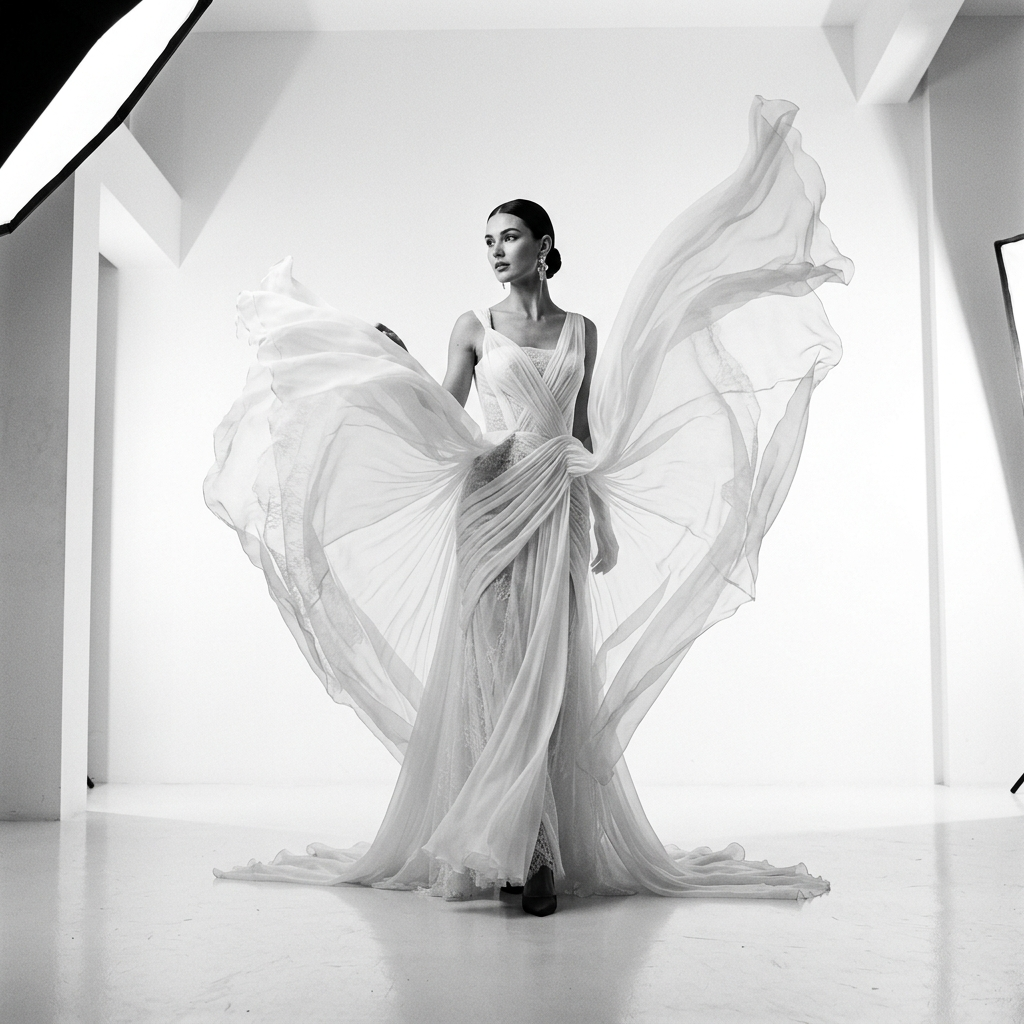
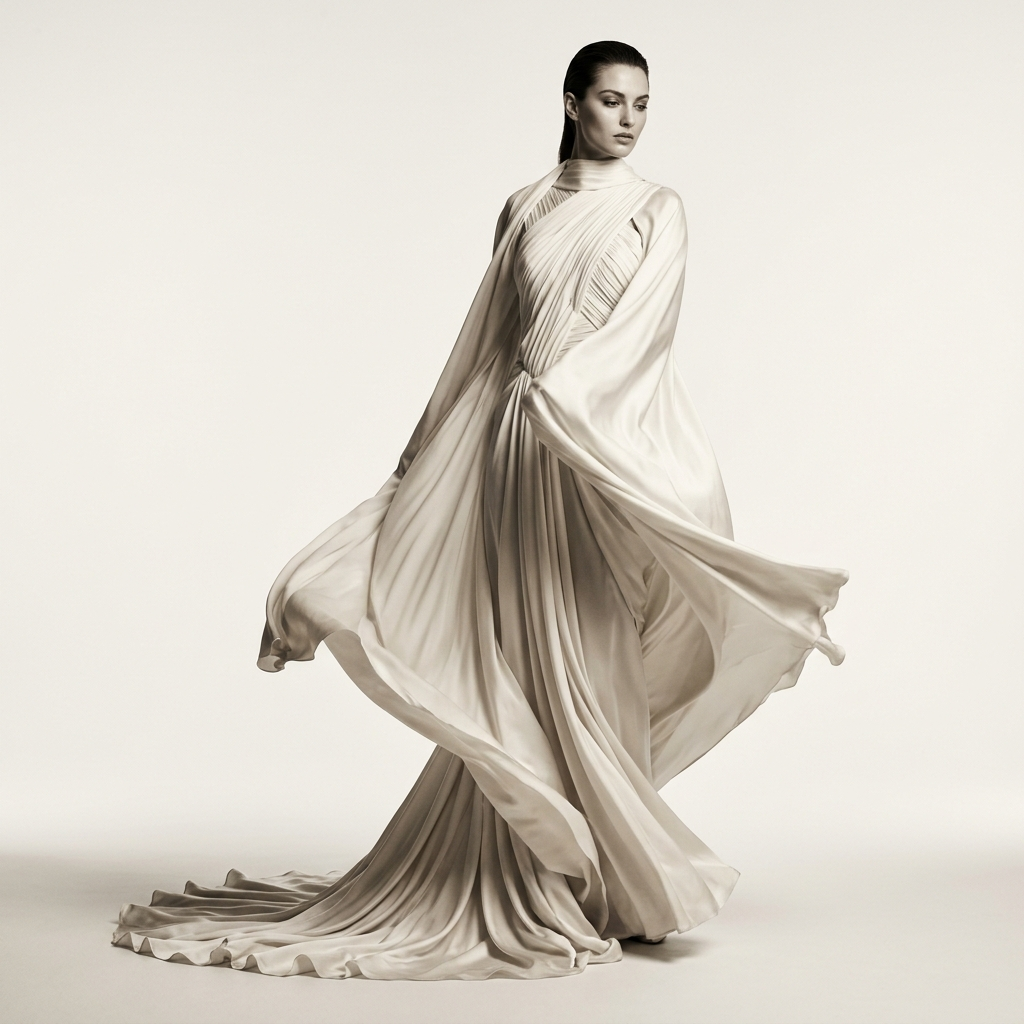
Major visual upgrade - warm themes, HD images, smoother animations
- Warm brown/cream backgrounds on alternate sections (watch, jewelry, sneaker, handbag, designer, footer)
- Hero image: higher clarity (opacity 0.45, reduced grayscale)
- New HD hero fashion photograph
- Warm gold accents throughout (scroll bar, section dividers, hover effects)
- Larger product images with hover zoom transitions
- Bigger text sizing for labels, quotes, descriptions
- Footer: dark warm-brown theme with gold dividers
- Smoother hanger scroll (5000px distance)
- Watch: floating animation effect
- Sneaker: 3D rotation reveal
- All horizontal journey titles have gold accent underlines

diff --git a/styles.css b/styles.css
@@ -13,6 +13,11 @@
   --grey-400: #D4D4D4;
   --grey-500: #A8A8A8;
   --silver-gradient: linear-gradient(135deg, #C0C0C0, #E8E8E8, #A8A8A8);
+  --warm-brown: #1A1410;
+  --warm-cream: #F5F0EB;
+  --warm-mocha: #2C2218;
+  --warm-gold: #C4A265;
+  --warm-sand: #E8DDD0;
   --font-display: 'Cormorant Garamond', serif;
   --font-body: 'Inter', sans-serif;
   --ease-luxury: cubic-bezier(0.16, 1, 0.3, 1);
@@ -184,7 +189,7 @@ button {
   left: 0;
   width: 0%;
   height: 2px;
-  background: var(--silver-gradient);
+  background: linear-gradient(135deg, var(--warm-gold), #D4B978, var(--warm-gold));
   z-index: 9997;
   transition: none;
 }
@@ -245,7 +250,7 @@ button {
   max-width: 600px;
   height: 80%;
   overflow: hidden;
-  opacity: 0.15;
+  opacity: 0.45;
   z-index: 1;
   pointer-events: none;
 }
@@ -254,14 +259,14 @@ button {
   width: 100%;
   height: 100%;
   object-fit: cover;
-  filter: grayscale(100%) contrast(1.1);
+  filter: grayscale(30%) contrast(1.15) brightness(1.05);
 }
 
 .hero-subtext {
   font-family: var(--font-body);
   font-size: clamp(0.9rem, 1.2vw, 1.1rem);
   font-weight: 300;
-  max-width: 500px;
+  max-width: 560px;
   margin: 0 auto 3rem;
   line-height: 1.8;
   opacity: 0.7;
@@ -391,7 +396,7 @@ button {
 
 .stat-label {
   font-family: var(--font-body);
-  font-size: 0.65rem;
+  font-size: 0.75rem;
   letter-spacing: 0.3em;
   text-transform: uppercase;
   margin-top: 0.5rem;
@@ -441,16 +446,26 @@ button {
 
 .world-title {
   font-family: var(--font-display);
-  font-size: clamp(1.8rem, 3.5vw, 3.5rem);
+  font-size: clamp(2rem, 4vw, 4rem);
   font-weight: 400;
   letter-spacing: 0.15em;
   text-transform: uppercase;
   margin-bottom: 1.5rem;
 }
 
+.world-title::after {
+  content: '';
+  display: block;
+  width: 40px;
+  height: 2px;
+  background: var(--warm-gold);
+  margin-top: 1rem;
+  opacity: 0.6;
+}
+
 .world-description {
   font-family: var(--font-body);
-  font-size: 0.95rem;
+  font-size: 1.05rem;
   font-weight: 300;
   max-width: 400px;
   line-height: 1.8;
@@ -798,8 +813,8 @@ button {
 
 /* Real product images */
 .world-product-image {
-  width: clamp(200px, 40vw, 420px);
-  height: clamp(250px, 50vw, 520px);
+  width: clamp(240px, 45vw, 480px);
+  height: clamp(300px, 55vw, 560px);
   overflow: hidden;
   position: relative;
 }
@@ -809,6 +824,12 @@ button {
   height: 100%;
   object-fit: cover;
   will-change: transform;
+  transition: transform 0.8s var(--ease-luxury);
+}
+
+.world-product-image img:hover {
+  transform: scale(1.04);
+  transition: transform 1.2s var(--ease-luxury);
 }
 
 .world-product-image::after {
@@ -879,7 +900,7 @@ canvas.cafe-steam-canvas {
 
 .world-client-name {
   font-family: var(--font-body);
-  font-size: 0.7rem;
+  font-size: 0.8rem;
   font-weight: 500;
   letter-spacing: 0.35em;
   text-transform: uppercase;
@@ -888,7 +909,7 @@ canvas.cafe-steam-canvas {
 
 .world-client-role {
   font-family: var(--font-body);
-  font-size: 0.7rem;
+  font-size: 0.8rem;
   font-weight: 300;
   opacity: 0.5;
   letter-spacing: 0.1em;
@@ -897,6 +918,72 @@ canvas.cafe-steam-canvas {
 /* Section-specific */
 #cafe-world {
   background: linear-gradient(to bottom, var(--white), #FAF8F5);
+}
+
+/* Warm themed sections */
+#watch-world {
+  background: var(--warm-brown);
+  color: var(--white);
+}
+
+#watch-world .world-quote,
+#watch-world .world-client-name,
+#watch-world .world-client-role {
+  color: var(--white);
+}
+
+#watch-world .world-quote::before {
+  color: var(--warm-gold);
+  opacity: 0.3;
+}
+
+#perfume-world {
+  background: linear-gradient(to bottom, var(--warm-cream), #F8F4EF);
+}
+
+#sneaker-world {
+  background: var(--warm-mocha);
+  color: var(--white);
+}
+
+#sneaker-world .world-quote,
+#sneaker-world .world-client-name,
+#sneaker-world .world-client-role {
+  color: var(--white);
+}
+
+#sneaker-world .world-quote::before {
+  color: var(--warm-gold);
+  opacity: 0.3;
+}
+
+#handbag-world {
+  background: linear-gradient(135deg, #FAF7F2, var(--warm-sand));
+}
+
+#designer-world {
+  background: var(--warm-cream);
+}
+
+#jewelry-world {
+  background: linear-gradient(to bottom, #0D0D0D, #1A1A1A);
+  color: var(--white);
+}
+
+#jewelry-world .world-quote,
+#jewelry-world .world-client-name,
+#jewelry-world .world-client-role {
+  color: var(--white);
+}
+
+#jewelry-world .world-quote::before {
+  color: var(--warm-gold);
+  opacity: 0.3;
+}
+
+#jewelry-world .glass-card {
+  background: rgba(255,255,255,0.05);
+  border-color: rgba(255,255,255,0.1);
 }
 
 /* Steam paths animation */
@@ -1003,6 +1090,8 @@ canvas.cafe-steam-canvas {
   justify-content: center;
   position: relative;
   padding: 8rem 2rem;
+  background: var(--warm-brown);
+  color: var(--white);
 }
 
 .footer-content {
@@ -1027,8 +1116,8 @@ canvas.cafe-steam-canvas {
 }
 
 .footer-cta {
-  background: var(--black);
-  color: var(--white);
+  background: var(--white);
+  color: var(--black);
   padding: 1.2rem 3.5rem;
   font-size: 0.7rem;
   letter-spacing: 0.35em;
@@ -1040,6 +1129,8 @@ canvas.cafe-steam-canvas {
 }
 
 .footer-cta:hover {
+  background: var(--warm-gold);
+  color: var(--white);
   transform: scale(1.02);
   box-shadow: 0 10px 40px rgba(0, 0, 0, 0.15);
 }
@@ -1047,7 +1138,7 @@ canvas.cafe-steam-canvas {
 .footer-divider {
   width: 60px;
   height: 1px;
-  background: var(--silver-gradient);
+  background: linear-gradient(135deg, var(--warm-gold), rgba(255,255,255,0.2));
   margin: 4rem auto;
   border: none;
 }
@@ -1064,6 +1155,7 @@ canvas.cafe-steam-canvas {
   margin-bottom: 0.5rem;
   opacity: 0.6;
   transition: opacity 0.3s var(--ease-luxury);
+  color: var(--white);
 }
 
 .footer-email:hover {
@@ -1080,17 +1172,17 @@ canvas.cafe-steam-canvas {
 .footer-social-icon {
   width: 44px;
   height: 44px;
-  border: 1px solid rgba(0, 0, 0, 0.15);
+  border: 1px solid rgba(255,255,255,0.2);
   border-radius: 50%;
   display: flex;
   align-items: center;
   justify-content: center;
   transition: all 0.3s var(--ease-luxury);
-  color: var(--black);
+  color: var(--white);
 }
 
 .footer-social-icon:hover {
-  border-color: var(--black);
+  border-color: var(--warm-gold);
   transform: translateY(-3px);
 }
 
@@ -1113,7 +1205,11 @@ canvas.cafe-steam-canvas {
 .footer-copyright {
   font-size: 0.65rem;
   letter-spacing: 0.2em;
-  opacity: 0.3;
+  color: rgba(255,255,255,0.3);
+}
+
+.footer-logo-final svg text {
+  fill: var(--white) !important;
 }
 
 .footer-fade {

diff --git a/animations.js b/animations.js
@@ -159,7 +159,7 @@ Animations.hangerSection = function() {
       pin: true,
       scrub: 1,
       start: 'top top',
-      end: '+=4000',
+      end: '+=5000',
       anticipatePin: 1,
     }
   });
@@ -568,6 +568,18 @@ Animations.testimonialWorld = function(sectionId, config = {}) {
         ease: 'sine.inOut',
       }, 2.5);
 
+      // Gentle floating
+      watchTl.to(product, {
+        y: -15,
+        duration: 0.5,
+        ease: 'sine.inOut',
+      }, 2.0);
+      watchTl.to(product, {
+        y: 0,
+        duration: 0.5,
+        ease: 'sine.inOut',
+      }, 2.5);
+
       // Testimonial
       if (testimonial) {
         gsap.set(testimonial, { opacity: 0, y: 40 });
@@ -769,6 +781,23 @@ Animations.testimonialWorld = function(sectionId, config = {}) {
         { y: 0, opacity: 1, scale: 1, duration: 1, ease: 'luxuryEase' },
         0
       );
+
+      // Slight rotation reveal
+      sneakerTl.to(product, {
+        rotationY: -5,
+        duration: 0.5,
+        ease: 'sine.inOut',
+      }, 0.8);
+      sneakerTl.to(product, {
+        rotationY: 5,
+        duration: 1,
+        ease: 'sine.inOut',
+      }, 1.3);
+      sneakerTl.to(product, {
+        rotationY: 0,
+        duration: 0.7,
+        ease: 'sine.out',
+      }, 2.3);
 
       // Slow dramatic zoom
       if (img) {
